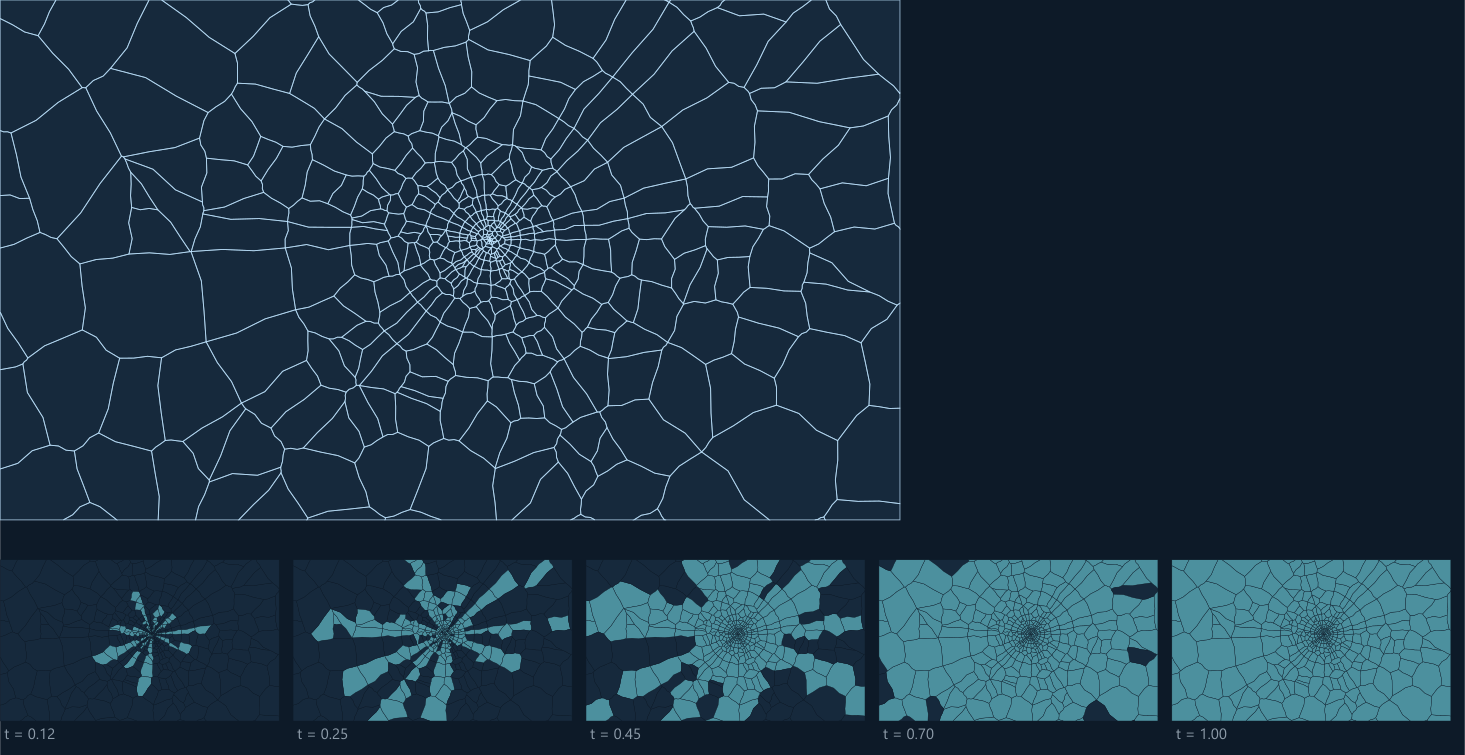
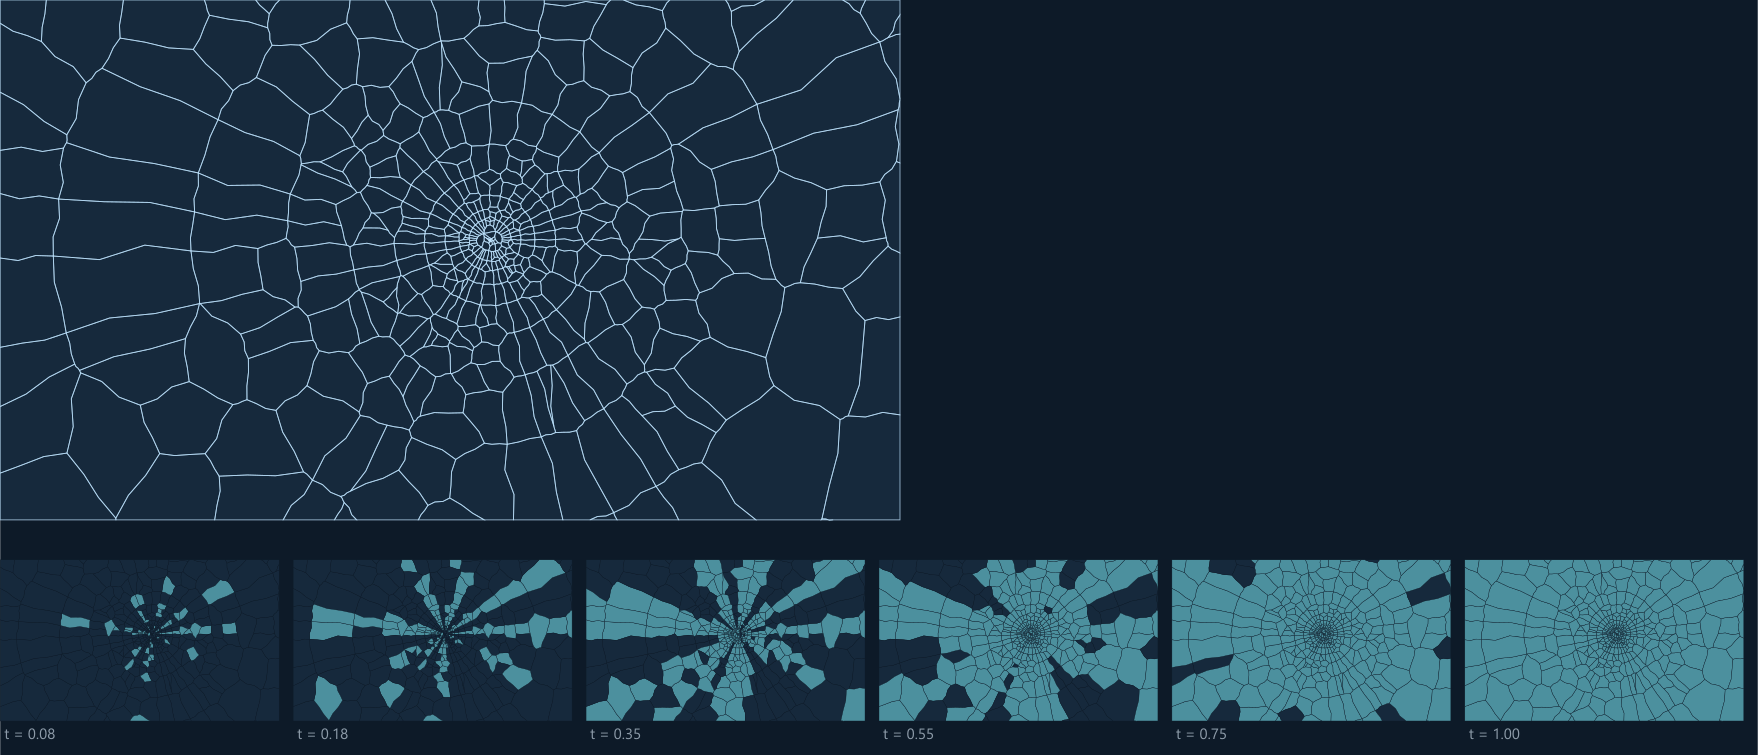
Give the fracture room, and stop it arriving as a front
Paul's note: the first cracks are almost perfect, and then the rest of the
pane still comes apart in sections. Two causes.

The phases were blended into one sweep, so the spears and the spread were
the same motion at different speeds and the pane came apart as travelling
wedges. Better than rings, still plainly a pattern being drawn. They are
now separate: the spears reach the frame inside the opening sixth, then a
beat where little moves, then the plates between them let go outward from
the strike. And the per-shard noise goes from 0.05 to 0.13, which is what
stops the fill arriving as a clean edge — neighbouring plates should not
agree with each other about when to go.

The pacing was also simply too fast. At 2.1s the whole thing was over
before a first-time player had registered that anything had happened, and
the moment this sequence exists for is the one where somebody thinks "hang
on, what IS that". 3.2s to crack, and the held beat before it lets go goes
from 0.28 to 0.5, because a pause only works if it is long enough to feel
like one. Everything downstream reads these from timeline.ts, so the fall
and the world's reveal stay in step on their own.

Confirmed on a GPU as well as on paper this time: the shader compiles, a
fresh tab reports no console output, and the pane comes apart out of order.

diff --git a/apps/web/lib/shaders/shardGlass.ts b/apps/web/lib/shaders/shardGlass.ts
@@ -89,13 +89,22 @@ export const ShardGlassMaterial = shaderMaterial(
       lateral *= lateral;
 
       float d = clamp(dist, 0.0, 1.0);
-      // Along a ray: straight out, quickly. Between them: wait for a branch,
-      // then cross. The constant is that wait.
-      float t = d * (0.45 + 0.55 * lateral) + lateral * 0.30;
 
-      // 1.30 is the worst case above (d = 1, lateral = 1), so the last shard
-      // to go lands on 1.0 and the pane is fully cracked exactly on time.
-      return clamp(t / 1.30 + (rnd - 0.5) * 0.05, 0.0, 1.0);
+      // TWO PHASES, deliberately separated rather than blended into one
+      // sweep. Blended, the pane came apart as travelling wedges — better
+      // than rings, still plainly a pattern being drawn.
+      //
+      // The spears go first and are over almost before they register: a
+      // handful of cracks to the frame inside the opening sixth. Then a
+      // beat where nothing much moves. Then the plates between them let go,
+      // outward from the strike, slowly enough to watch.
+      float spear = d * 0.16;
+      float fill = 0.30 + 0.70 * pow(d, 0.75);
+      float t = mix(spear, fill, lateral);
+
+      // Coarse per-shard noise, which is what stops the fill arriving as a
+      // clean front. Neighbouring plates should not agree with each other.
+      return clamp(t + (rnd - 0.5) * 0.13, 0.0, 1.0);
     }
 
     // Rodrigues rotation — each shard tumbles about its own centre.

diff --git a/apps/web/lib/timeline.ts b/apps/web/lib/timeline.ts
@@ -6,14 +6,25 @@
  * and duplicating these numbers in two files guarantees they drift apart.
  */
 
-/** Time for the fracture to travel from the strike to the pane edges. */
-export const CRACK_DURATION = 2.1;
+/**
+ * Time for the fracture to travel from the strike to the pane edges.
+ *
+ * Slower than it was. At 2.1s the whole pane had gone before a first-time
+ * player had finished registering that anything happened — the point of
+ * this sequence is the moment somebody thinks "hang on, what IS that", and
+ * that moment needs room to arrive. The spears still snap out instantly;
+ * it is the spread afterwards that is given time to be watched.
+ */
+export const CRACK_DURATION = 3.2;
 
 /**
  * A beat of held tension after the pane is fully cracked but before it lets
  * go — the "it's going to fall, isn't it" moment.
+ *
+ * Longer too, for the same reason: the pause only works if it is long
+ * enough to be felt as a pause.
  */
-export const COLLAPSE_AT = CRACK_DURATION + 0.28;
+export const COLLAPSE_AT = CRACK_DURATION + 0.5;
 
 /** The camera starts falling just after the floor does, not with it. */
 export const PLUNGE_AT = COLLAPSE_AT + 0.12;

diff --git a/apps/web/scripts/crackPattern.ts b/apps/web/scripts/crackPattern.ts
@@ -22,7 +22,7 @@ import { CRACK_RAYS } from "../lib/fracture/crackLook";
 
 const W = 900;
 const H = 520;
-const STEPS = [0.12, 0.25, 0.45, 0.7, 1.0];
+const STEPS = [0.08, 0.18, 0.35, 0.55, 0.75, 1.0];
 
 /**
  * MIRROR of shardCrackTime in shaders/shardGlass.ts.
@@ -37,8 +37,10 @@ function crackTime(dist: number, angle: number, rnd: number): number {
   lateral *= lateral;
 
   const d = Math.max(0, Math.min(1, dist));
-  const t = d * (0.45 + 0.55 * lateral) + lateral * 0.3;
-  return Math.max(0, Math.min(1, t / 1.3 + (rnd - 0.5) * 0.05));
+  const spear = d * 0.16;
+  const fill = 0.3 + 0.7 * Math.pow(d, 0.75);
+  const t = spear + (fill - spear) * lateral;
+  return Math.max(0, Math.min(1, t + (rnd - 0.5) * 0.13));
 }
 
 const pattern = generateVoronoiCells({
